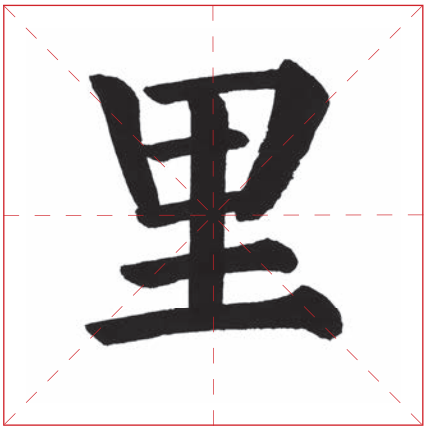
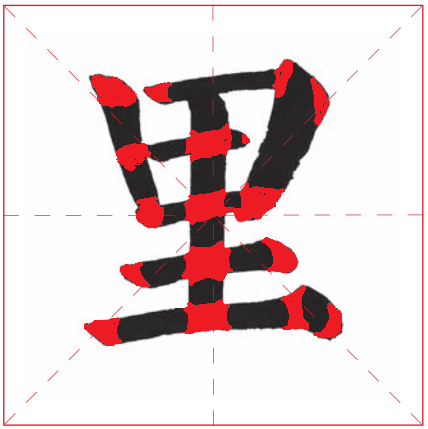
update single algorithm

diff --git a/algorithms/utils/single_pre/skeleton_extraction.py b/algorithms/utils/single_pre/skeleton_extraction.py
@@ -1,9 +1,13 @@
 import cv2
+import sys
 import skimage as ski
 import numpy as np
 
 from imutils.contours import sort_contours
+from sklearn.cluster import DBSCAN
 
+
+sys.setrecursionlimit(1000000)
 
 def character_color_segmentation(image_input):
 	"""
@@ -31,92 +35,178 @@ def character_color_segmentation(image_input):
 	right_inclined = np.array([[0, 1, 1],[0, 1, 0],[1, 1, 0]], dtype='uint8')
 	# selem = ski.morphology.disk(3)
 	image_output = ski.morphology.closing(image_gray, right_inclined)
+	image_output = np.uint8(image_output)
+	# image_output = ski.util.img_as_ubyte(image_output)
+	ski.io.imsave('segmentation.png', image_output)
 
 	return image_output
 
 
 def skeleton_endpoints(skel):
-    # Function source: https://stackoverflow.com/questions/26537313/
-    # how-can-i-find-endpoints-of-binary-skeleton-image-in-opencv
-    # make out input nice, possibly necessary
-    skel = skel.copy()
-    skel[skel != 0] = 1
-    skel = np.uint8(skel)
+	# Function source: https://stackoverflow.com/questions/26537313/
+	# how-can-i-find-endpoints-of-binary-skeleton-image-in-opencv
+	# make out input nice, possibly necessary
+	skel = skel.copy()
+	skel[skel != 0] = 1
+	skel = np.uint8(skel)
 
-    # apply the convolution
-    kernel = np.uint8([[1,  1, 1],
-                       [1, 10, 1],
-                       [1,  1, 1]])
-    src_depth = -1
-    filtered = cv2.filter2D(skel, src_depth,kernel)
+	# apply the convolution
+	kernel = np.uint8([[1,  1, 1],
+					   [1, 10, 1],
+					   [1,  1, 1]])
+	src_depth = -1  # this means cv2.CV_16S
+	filtered = cv2.filter2D(skel, src_depth, kernel)
 
-    # now look through to find the value of 11
-    # this returns a mask of the endpoints, but if you just want the coordinates, 
-    # you could simply return np.where(filtered==11)
-    out = np.zeros_like(skel)
-    out[np.where(filtered == 11)] = 1
-    rows, cols = np.where(filtered == 11)
-    coords = list(zip(cols, rows))
-    return coords
+	# now look through to find the value of 11
+	# this returns a mask of the endpoints, but if you just want the coordinates, 
+	# you could simply return np.where(filtered==11)
+	out = np.zeros_like(skel)
+	out[np.where(filtered == 11)] = 1
+	rows, cols = np.where(filtered == 11)
+	coords = list(zip(cols, rows))
+	out = np.zeros_like(skel)
+	out[np.where(filtered == 10)] = 1
+	rows, cols = np.where(filtered == 10)
+	coords.extend(list(zip(cols, rows)))
+
+	cross = np.zeros_like(skel)
+	cross[np.where(filtered >= 13)] = 1
+	rows, cols = np.where(filtered >= 13)
+	cross_coords = list(zip(cols, rows))
+	# coords.extend(cross_coords)
+	return coords, cross_coords
 
 
-# def endpoints(th, contours):
+def point_cluster(points, points_clusters_label):
+	points = np.array(points, dtype=np.float32)
 
+	# 初始化一个字典来存储每个类别的交叉点坐标和计数
+	clusters = {}
+
+	# 遍历每个点及其类别标签
+	for point, label in zip(points, points_clusters_label):
+		# 跳过噪声点（DBSCAN中标签为-1的点）
+		if label == -1:
+			continue
+		
+		# 如果类别标签在字典中不存在，则初始化
+		if label not in clusters:
+			clusters[label] = {"sum": np.zeros_like(point), "count": 0}
+		
+		# 累加同类别点的坐标并计数
+		clusters[label]["sum"] += point
+		clusters[label]["count"] += 1
+
+	# 计算每个类别的平均坐标
+	new_points = []
+	for label in clusters:
+		average_point = clusters[label]["sum"] / clusters[label]["count"]
+		new_points.append(average_point)
+
+	# new_cross 现在包含了每个聚类的平均坐标点
+	new_points = np.array(new_points, dtype=np.int32)
+	return new_points
+
+
+def keypoints_search(contours, skeleton, src):
+	dbscan = DBSCAN(eps=14, min_samples=1)
+	contours, _ = sort_contours(contours, )
+	# List for endpoints and (x, y) coordinates of the skeletons
+	endpoints, crosspoints, skeletons = [], [], []
+	points_ls = []
+
+	for contour in contours:
+		if cv2.arcLength(contour, True) > 10:
+			# Initialize mask
+			mask = np.zeros(skeleton.shape, np.uint8)  # 这里可能需要原始图像的shape
+			# Bounding rect of the contour
+			x, y, w, h = cv2.boundingRect(contour)
+			mask[y:y+h, x:x+w] = 255
+			# Get only the skeleton in the mask area
+			mask = cv2.bitwise_and(mask, skeleton)
+			# Take the coordinates of the skeleton points
+			rows, cols = np.where(mask == 255)
+			# Add the coordinates to the list
+			skeletons.append(list(zip(cols, rows)))
+
+			# Find the endpoints for the shape and update a list
+			eps, cross = skeleton_endpoints(mask)
+			points = eps + cross
+			points_ls.extend(points)
+
+	points_clusters_label = dbscan.fit_predict(points_ls)
+	points = point_cluster(points_ls, points_clusters_label)
+
+	return points
+
+
+def find_white_neighbors(img, x, y, visited):
+	directions = [(-1, -1), (-1, 0), (-1, 1), (0, -1), (0, 1), (1, -1), (1, 0), (1, 1)]
+	neighbors = []
+	for dx, dy in directions:
+		nx, ny = x + dx, y + dy
+		directions = [(dx, dy), ()]
+		if 0 <= nx < img.shape[0] and 0 <= ny < img.shape[1] and (nx, ny) not in visited:
+			if img[nx, ny] != 0:  # 检查是否为白色像素
+				neighbors.append((nx, ny))
+	return neighbors
+
+
+def dfs(img, point, points, visited):
+	x, y = point
+	if tuple(point) in visited or img[x, y] == 0:
+		return None
+	visited.add(tuple(point))  # 将当前点标记为访问过
+	neighbors = find_white_neighbors(img, x, y, visited)
+	for neighbor in neighbors:
+		if tuple(neighbor) != tuple(point) and neighbor in points:
+			return neighbor
+		result = dfs(img, neighbor, points, visited)
+		if result:
+			return result
+
+
+def connect_check(img, points):
+	connected_points = []
+	for point in points:
+		visited = set()  # 记录访问过的像素点
+		result = dfs(img, point, points, visited)
+		if result:
+			connected_points.append((point, result))
+	return connected_points
 
 
 def main():
-	filename = 'handwrite'
+	filename = '23'
 	character = ski.io.imread(filename+'.png')
 	character = ski.transform.resize(character, (224, 224))
 	
 	# if the image is RGBA, we need to convert it to RGB first
 	if character.shape[-1] == 4:
 		character = ski.color.rgba2rgb(character)
-	character = character_color_segmentation(character)
-	skeleton = ski.morphology.skeletonize(character)
+	character = ski.util.img_as_ubyte(character)
+	character_bi = character_color_segmentation(character)
+	character_edge = ski.feature.canny(character_bi, sigma=3)
+
+	skeleton = ski.morphology.skeletonize(character_bi)
 	skeleton = ski.util.img_as_ubyte(skeleton)
+	# ski.io.imsave(f'{filename}_skeleton.png', skeleton)
 
 	contours, _ = cv2.findContours(skeleton.copy(), cv2.RETR_EXTERNAL, cv2.CHAIN_APPROX_NONE)
-	contours, _ = sort_contours(contours, )
-	# List for endpoints and (x, y) coordinates of the skeletons
-	endpoints, skeletons = [], []
+	points = keypoints_search(contours, skeleton, character_bi)
 
-	for contour in contours:
-	    if cv2.arcLength(contour, True) > 100:
-	        # Initialize mask
-	        mask = np.zeros(character.shape, np.uint8)  # 这里可能需要原始图像的shape
-	        # Bounding rect of the contour
-	        x, y, w, h = cv2.boundingRect(contour)
-	        mask[y:y+h, x:x+w] = 255
-	        # Get only the skeleton in the mask area
-	        mask = cv2.bitwise_and(mask, skeleton)
-	        # Take the coordinates of the skeleton points
-	        rows, cols = np.where(mask == 255)
-	        # Add the coordinates to the list
-	        skeletons.append(list(zip(cols, rows)))
+		
+	# connected_points = connect_check(character, points)
+	# print("Connected points:", connected_points, len(connected_points))
 
-	        # Find the endpoints for the shape and update a list
-	        eps = skeleton_endpoints(mask)
-	        endpoints.append(eps)
-
-	        # Draw the endpoints
-	        [cv2.circle(skeleton, ep, 7, 255, 1) for ep in eps]
-	        # cv2.imshow('mask', mask)
-	        # cv2.waitKey(500)
-
-
-	# ski.io.imshow(skeleton)
-	# ski.io.show()
-	# cv2.imshow('mask', skeleton)
-	# cv2.waitKey(0)
-	# cv2.destroyAllWindows()
-	ski.io.imsave(f'{filename}_skeleton.png', skeleton)
-
+	# 定义有效区域的掩码（二值化图像中白色区域）
+	mask = character_bi == 0
+	[cv2.circle(character, p, 8, 255, -1) for p in points]
+	[cv2.circle(skeleton, p, 8, 225, 1) for p in points]
+	character[mask] = 255
+	character = character.astype(np.uint8)
+	# 保存或显示图像
+	ski.io.imsave(f'{filename}_points.png', character)
+	ski.io.imsave(f'{filename}_sk.png', skeleton)
 if __name__ == '__main__':
 	main()
-# RIGHT_INCLINED = np.array([[0, 1, 1],[0, 1, 0],[1, 1, 0]], dtype='uint8')
-# character = threshold(character)
-# character = closing(character, RIGHT_INCLINED)
-# img = ski.filters.gaussian(character, sigma=3)
-# # img = ski.transform.resize(character, (224, 224))
-# _, thresh = threshold(img)

diff --git a/algorithms/utils/single_pre/stage2optim.py b/algorithms/utils/single_pre/stage2optim.py
@@ -1,0 +1,114 @@
+from skimage import io, morphology, measure, util
+import numpy as np
+from scipy import ndimage
+from scipy.spatial.distance import cdist
+
+# Define utility functions
+def draw_line(p1, p2):
+    """Generate the coordinates of a line from p1 to p2 using Bresenham's algorithm"""
+    # Setup initial conditions
+    x1, y1 = p1
+    x2, y2 = p2
+    dx = x2 - x1
+    dy = y2 - y1
+
+    # Determine how steep the line is
+    is_steep = abs(dy) > abs(dx)
+
+    # Rotate line
+    if is_steep:
+        x1, y1 = y1, x1
+        x2, y2 = y2, x2
+
+    # Swap start and end points if necessary and store swap state
+    swapped = False
+    if x1 > x2:
+        x1, x2 = x2, x1
+        y1, y2 = y2, y1
+        swapped = True
+
+    # Recalculate differentials
+    dx = x2 - x1
+    dy = y2 - y1
+
+    # Calculate error
+    error = int(dx / 2.0)
+    ystep = 1 if y1 < y2 else -1
+
+    # Iterate over bounding box generating points between start and end
+    y = y1
+    points = []
+    for x in range(x1, x2 + 1):
+        coord = (y, x) if is_steep else (x, y)
+        points.append(coord)
+        error -= abs(dy)
+        if error < 0:
+            y += ystep
+            error += dx
+
+    # Reverse the list if the coordinates were swapped
+    if swapped:
+        points.reverse()
+    return points
+
+def is_line_on_skeleton(p1, p2, skel):
+    """Check if a line between two points lies entirely on the skeleton."""
+    line = draw_line(p1, p2)
+    return all(skel[x, y] for x, y in line)
+
+# Load the images
+original_image_path = 'segmentation.png'
+skeleton_image_path = 'li_skeleton.png'
+
+original_image = io.imread(original_image_path, as_gray=True)
+skeleton_image = io.imread(skeleton_image_path, as_gray=True)
+
+# Threshold the images
+original_image = (original_image > 0.5).astype(np.uint8)
+skeleton_image = (skeleton_image > 0.5).astype(np.uint8)
+
+# Calculate the width of the font
+N_S = np.sum(skeleton_image)
+N_O = np.sum(original_image)
+W_f = N_S / (2.0 * N_O)
+
+# Label endpoints on the skeleton
+def skeleton_endpoints(skel):
+    # Apply endpoint kernel to skeleton
+    endpoint_kernel = np.array([[1, 1, 1],
+                                [1, 10, 1],
+                                [1, 1, 1]])
+    filtered = ndimage.convolve(skel, endpoint_kernel, mode='constant', cval=1)
+    return np.transpose(np.nonzero(filtered == 11))
+
+# Extract endpoints from the skeleton
+endpoints = skeleton_endpoints(skeleton_image)
+
+# Function to get the neighborhood of a point
+def get_neighborhood(point, distance, shape):
+    """Return a list of points forming a square (neighborhood) around a point."""
+    x, y = point
+    x_min = max(x - distance, 0)
+    x_max = min(x + distance + 1, shape[0])
+    y_min = max(y - distance, 0)
+    y_max = min(y + distance + 1, shape[1])
+    return [(i, j) for i in range(x_min, x_max) for j in range(y_min, y_max)]
+
+# Function to determine if a point is a T-junction
+def is_T_junction(point, skel, endpoints, distance):
+    """Check if a point is a T-junction."""
+    neighborhood = get_neighborhood(point, distance, skel.shape)
+    count = 0
+    for neighbor in neighborhood:
+        if neighbor in endpoints and is_line_on_skeleton(point, neighbor, skel):
+            count += 1
+    return count >= 3
+
+# Detect T-junctions in the skeleton
+T_junctions = [point for point in endpoints if is_T_junction(point, skeleton_image, endpoints, int(W_f))]
+
+# Display the results
+print(f"Width of the font (W_f): {W_f}")
+print(f"Number of endpoints: {len(endpoints)}")
+print(f"Detected T-junctions: {len(T_junctions)}")
+T_junctions[:5] 

diff --git a/algorithms/utils/single_pre/test.py b/algorithms/utils/single_pre/test.py
@@ -1,0 +1,16 @@
+import numpy as np
+import matplotlib.pyplot as plt
+import skimage as ski
+# 读取图像或创建一个空白图像
+image = np.zeros((100, 100, 3), dtype=np.uint8)
+
+# 定义圆的中心和半径
+center = (7, 0)
+radius = 7
+
+# 使用skimage.draw绘制圆
+rr, cc = ski.draw.circle_perimeter(center[0], center[1], radius)
+image[rr, cc] = 255
+image[0, 10] = 255
+ski.io.imshow(image)
+plt.show()

diff --git a/algorithms/main.py b/algorithms/main.py
@@ -17,7 +17,7 @@ class Assess(rpc.AssessServiceServicer):
         img = Image.open(img_stream)
         img_np = np.array(img)
         print(f"Load success, {img_np.shape}")
-        s = score(img)
+        s = score(img)+2
         c = comments()
         return pb.AssessResponse(score=s, comment=c)
         # Image.open(request.img).show()
